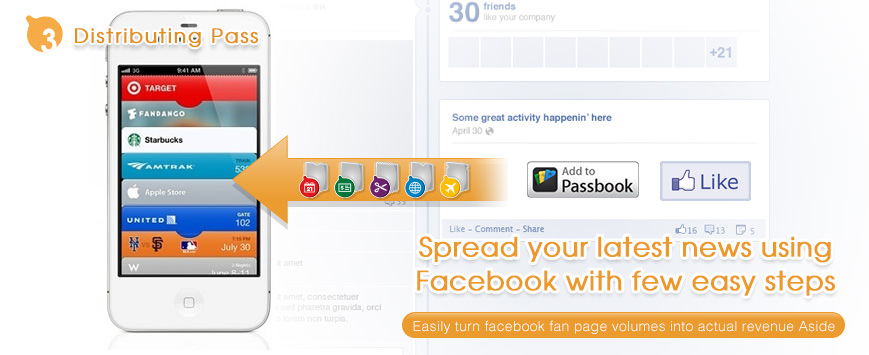
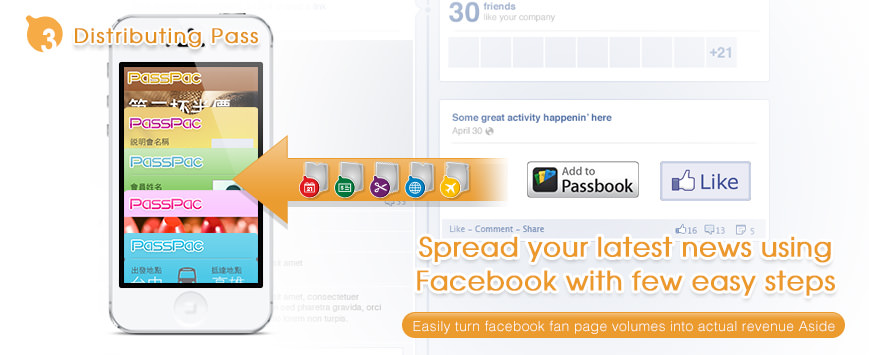
Mail範本字級修正+Banner圖片修改 #20130828

Changed region(s): [[0.1243, 0.1239, 0.3418, 0.9606], [0.1243, 0.0, 0.3107, 0.093]]

diff --git a/mail_tw.html b/mail_tw.html
@@ -22,17 +22,17 @@
     <td style="padding:0 10px">
        <h1 style="font-size:15px; line-height:20px; margin:0 0 -15px 0; padding:0">Starbucks</h1>
        <h2 style="font-size:30px; line-height:30px; padding-bottom:0">每日咖啡第二杯半價</h2>
-       <h3 style=" font-size:18px; padding:0 0 20px 0">Starbucks Coffee 20週年慶</h3>
-       <p style="line-height:22px">*使用期限至2013年9月31日止<br />
+       <h3 style=" font-size:22px; padding:0 0 20px 0">Starbucks Coffee 20週年慶</h3>
+       <p style="font-size:16px;line-height:22px">*使用期限至2013年9月31日止<br />
           *不得與其他優惠並用</p>
        <div style="display:block; width:90%; padding:15px; margin-bottom:20px; background-color:#EFEFEF; border-radius:10px; -moz-border-radius:10px; -webkit-border-radius:10px">   
           <a href="#" title="下載Pass"><img src="images/add.png" width="120" height="40" alt="add pass" style="border:none"/></a>
-          <p style="line-height:22px">因為您領取了一個優惠，所以我們從PassPac服務平台寄送了這個訊息給您。</p>
+          <p style="font-size:13px; line-height:22px; color:#6E6E6E">因為您領取了一個優惠，所以我們從PassPac服務平台寄送了這個訊息給您。</p>
        </div>       
     </td>
   </tr>
   <tr>
-    <td colspan="2" style=" padding:5px 8px; background:#28B6D9; font-size:13px; line-height:25px; color:#FFF; text-align:center">
+    <td colspan="2" style=" padding:5px 8px; background:#28B6D9; font-size:12px; line-height:25px; color:#FFF; text-align:center">
        以上服務平台由 QZ Tap 提供，服務內容及服務條款，請參閱提供優惠公司相關之規定。<br />
        <a href="http://www.qztap.com/" title="PassPac web" style="color:#fff" target="_blank">PassPac web</a> │ <a href="http://www.qztap.com/content/account/teams_of_conditions.html" title="服務條款" style="color:#fff" target="_blank">服務條款</a> │ <a href="http://www.qztap.com/content/account/usage_limitation.html" title="隱私權政策" style="color:#fff" target="_blank">隱私權政策</a>
     </td>

diff --git a/mail_en.html b/mail_en.html
@@ -22,12 +22,12 @@
     <td style="padding:0 10px">
        <h1 style="font-size:15px; line-height:20px; margin:0 0 -15px 0; padding:0">Starbucks</h1>
        <h2 style="font-size:30px; line-height:30px; padding-bottom:0">The second half cups of coffee a day</h2>
-       <h3 style=" font-size:20px; padding:0 0 20px 0">Starbucks Coffee 20years</h3>
+       <h3 style=" font-size:22px; padding:0 0 20px 0">Starbucks Coffee 20years</h3>
        <p style=" font-size:16px;line-height:22px">*Use period to September 31, 2013 ended<br />
           *Not be combined with any other offer</p>
        <div style="display:block; width:90%; padding:15px; margin-bottom:20px; background-color:#EFEFEF; border-radius:10px; -moz-border-radius:10px; -webkit-border-radius:10px">   
           <a href="#" title="下載Pass"><img src="images/add.png" width="120" height="40" alt="add pass" style="border:none"/></a>
-          <p style="font-size:13px; line-height:22px">Because you receive a discount, so we send a service platform from PassPac this message to you.</p>
+          <p style="font-size:13px; line-height:22px; color:#6E6E6E">Because you receive a discount, so we send a service platform from PassPac this message to you.</p>
        </div>       
     </td>
   </tr>
